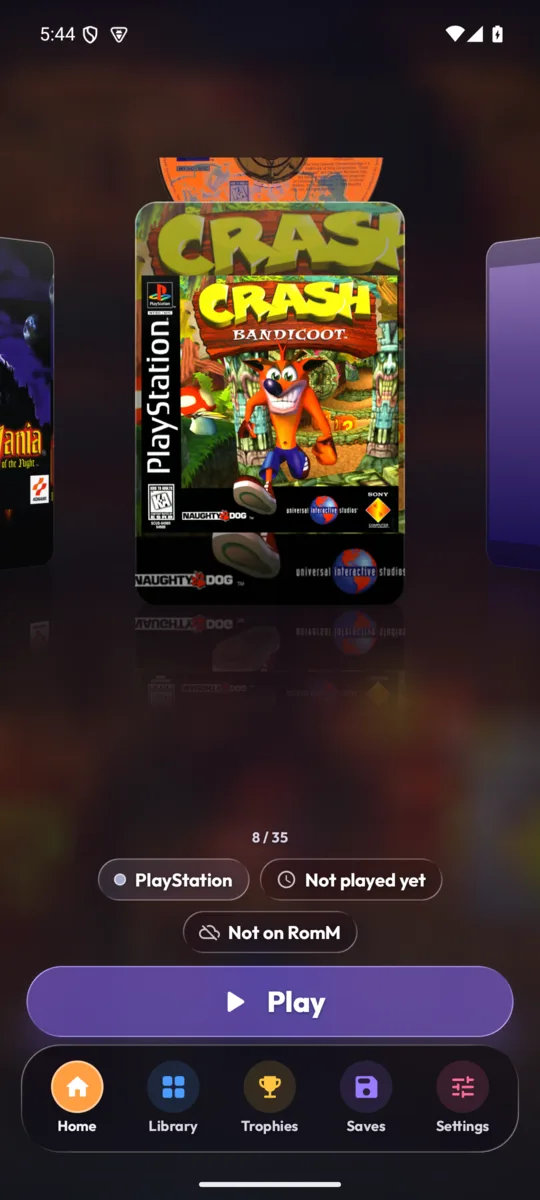
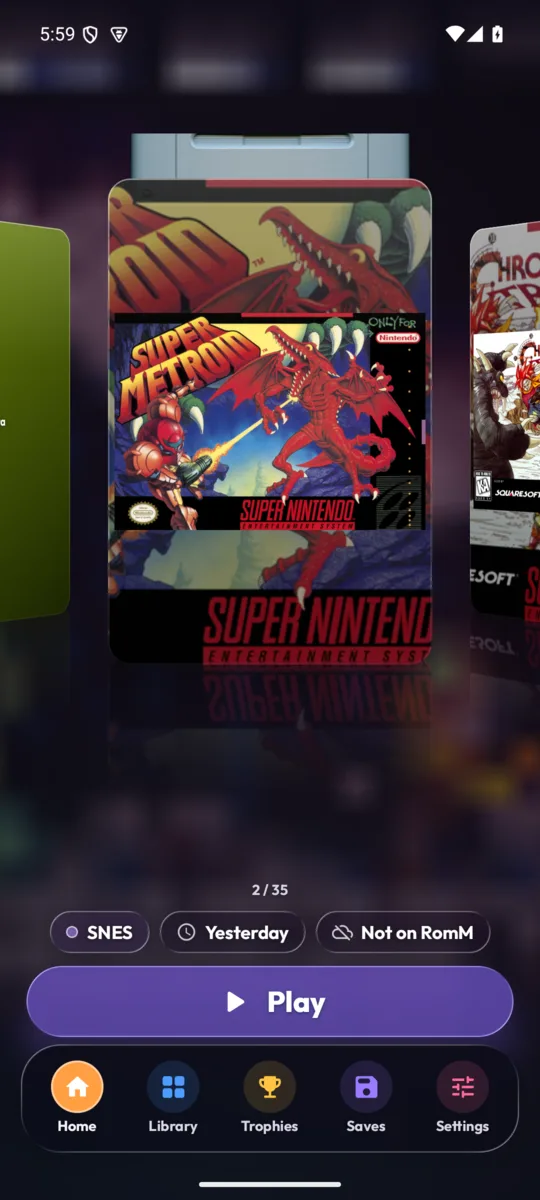
0.15.1: cover flow keeps its cover size, neighbours sit closer instead
Covers are back to their previous size; the empty space beside them is trimmed by tightening
the gap and moving the shrunken side covers in by the space their shrink and turn left.

diff --git a/app/src/main/java/io/github/audxius/pillar/ui/screens/HomeCarousel.kt b/app/src/main/java/io/github/audxius/pillar/ui/screens/HomeCarousel.kt
@@ -208,7 +208,7 @@ fun HomeCarouselScreen() {
                 io.github.audxius.pillar.data.HomeBrowse.COVERFLOW -> BoxWithConstraints(Modifier.weight(1f).fillMaxWidth(), contentAlignment = Alignment.Center) {
                     // Big, but narrow enough that the neighbours on both sides stay in view.
                     val ratio = LocalSettings.current.coverShape.ratio()
-                    Carousel(ordered, listState, selectedIndex, minOf((maxHeight - 20.dp) / 1.12f, maxWidth * 0.5f / (ratio * 0.9f)), coverFlow = true, onLongPress = { quick = it })
+                    Carousel(ordered, listState, selectedIndex, minOf((maxHeight - 20.dp) / 1.12f, maxWidth * 0.6f / (ratio * 0.9f)), coverFlow = true, onLongPress = { quick = it })
                 }
                 else -> Carousel(ordered, listState, selectedIndex, itemHeight, coverFlow = false, onLongPress = { quick = it })
             }
@@ -378,7 +378,7 @@ private fun Carousel(games: List<Game>, state: LazyListState, selectedIndex: Int
             flingBehavior = rememberSnapFlingBehavior(state),
             contentPadding = PaddingValues(horizontal = side),
             // Cover flow keeps a gap wide enough that turning covers never cut into each other.
-            horizontalArrangement = Arrangement.spacedBy(if (coverFlow) 18.dp else 14.dp),
+            horizontalArrangement = Arrangement.spacedBy(if (coverFlow) 8.dp else 14.dp),
             verticalAlignment = if (coverFlow) Alignment.Top else Alignment.CenterVertically,
             modifier = Modifier.fillMaxHeight().then(catchMoving),
         ) {
@@ -410,6 +410,8 @@ private fun Carousel(games: List<Game>, state: LazyListState, selectedIndex: Int
                                     // The centre cover is full size (never bigger than its slot, so it never covers Play).
                                     val sc = 1f - minOf(abs(c), 1f) * 0.16f
                                     scaleX = sc; scaleY = sc
+                                    // Close only the gap the shrink and turn leave, so neighbours peek in without overlapping.
+                                    translationX = -kotlin.math.sign(c) * minOf(abs(c), 1f) * size.width * 0.12f
                                     cameraDistance = 14f * density
                                 }
                                 .drawWithContent {
